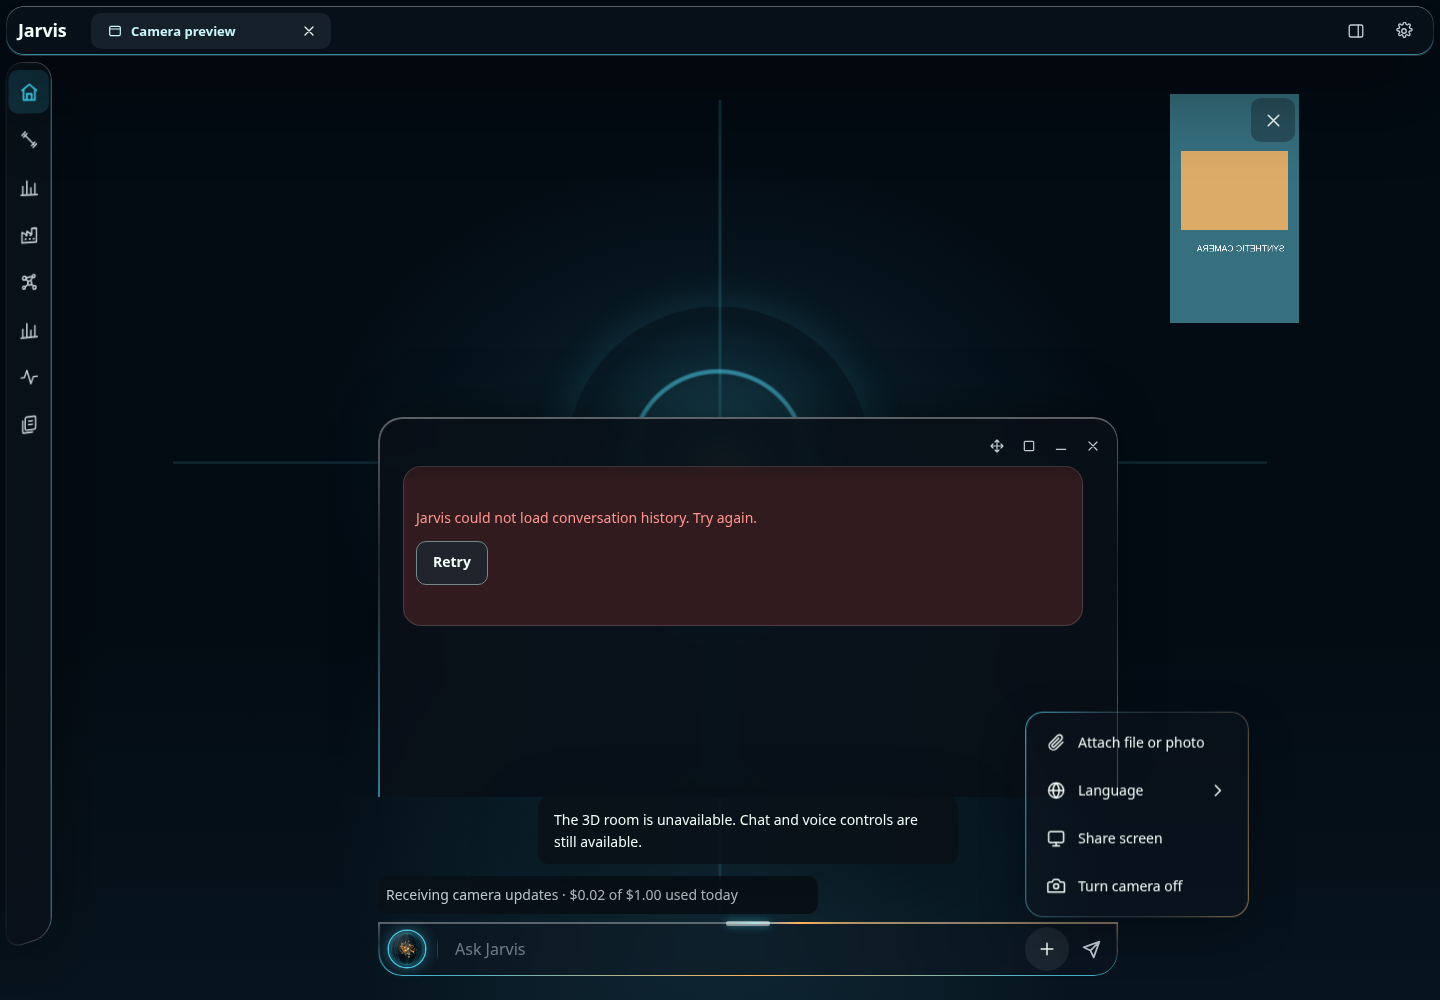
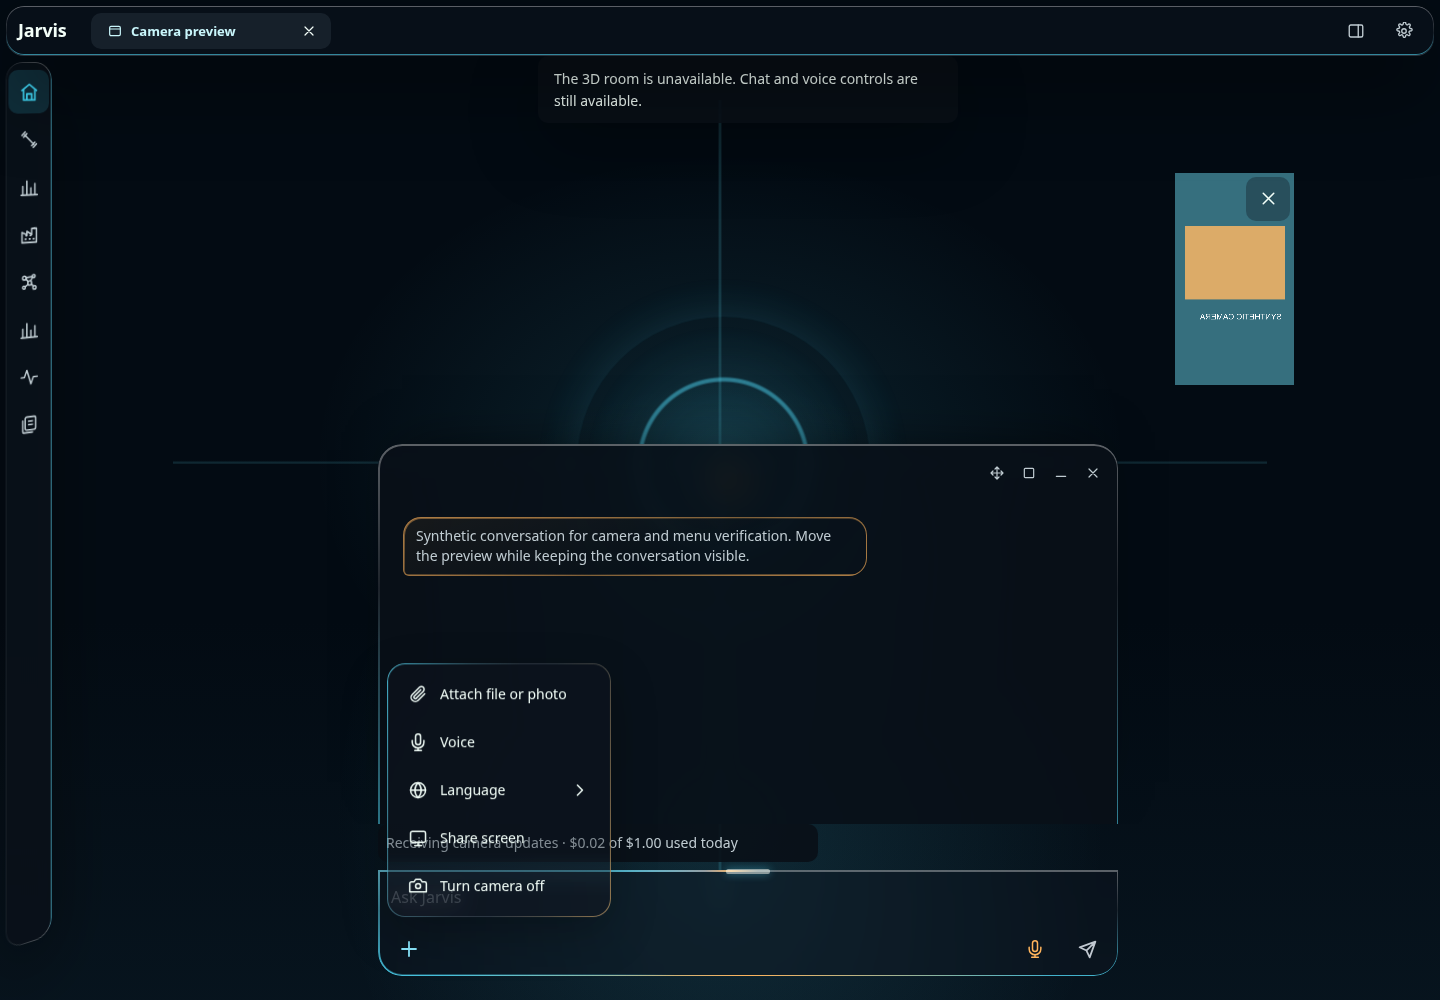
test: validate unified camera on integrated main

diff --git a/docs/ui/screenshots/1317/fixtures/browser.py b/docs/ui/screenshots/1317/fixtures/browser.py
@@ -23,6 +23,7 @@ with sync_playwright() as p:
    if '/settings' in u:data={'settings':{'appearance':{'theme':'dark'}}}
    if '/presence' in u:data={'mode':'available','updatedAt':'2026-10-26T06:00:00Z'}
    if '/conversation/sessions' in u:data={'id':'43','channel':'chat','language':'en'}
+   if '/conversation/turns/active' in u:data={'turns':[]}
    if '/vision/watch' in u:
     if r.request.method=='POST' and stall:held.append(r);return
     if r.request.method=='POST' and exhausted:r.fulfill(status=429,json={'error':'The daily vision budget is exhausted.'});return
@@ -34,7 +35,7 @@ with sync_playwright() as p:
   navigator.permissions.query=async()=>({state:window.fixturePermission});
   const originalFetch=window.fetch.bind(window);
   window.fetch=async(input,init)=>{
-    const url=typeof input==='string'?input:input.url;
+    const url=input instanceof Request?input.url:String(input);
     if(url.endsWith('/now/events')) return new Response(new ReadableStream({start(controller){
       const emit=(event,data)=>controller.enqueue(new TextEncoder().encode('event: '+event+'\\ndata: '+JSON.stringify(data)+'\\n\\n'));
       window.fixtureCommand=command=>emit('workspace-command',{command,expiresAt:Date.now()+10000});
@@ -57,6 +58,8 @@ with sync_playwright() as p:
   page.goto('http://localhost:5173/qaapp1296.html');page.get_by_role('textbox',name='Message Jarvis').wait_for();page.wait_for_timeout(1000)
   page.evaluate("document.documentElement.dataset.theme='dark'")
   if page.get_by_role('button',name='Show conversation',exact=True).count():page.get_by_role('button',name='Show conversation',exact=True).click()
+  page.get_by_text('Synthetic conversation for camera and menu verification.',exact=False).first.wait_for()
+  assert page.get_by_text('Jarvis could not load conversation history.',exact=False).count()==0
   trigger=page.locator('.composer-more .more-menu-trigger'); trigger.wait_for()
   press=lambda locator: locator.tap() if touch else locator.click()
   for i in range(3):

diff --git a/docs/ui/screenshots/1317/README.md b/docs/ui/screenshots/1317/README.md
@@ -13,7 +13,7 @@ when requested; missing browser permission is refused explicitly.
 
 ## Local evidence
 
-- Final `npm test`: contracts 174 passed; web 153 files/2,388 passed; backend
+- Pre-integration `npm test`: contracts 174 passed; web 153 files/2,388 passed; backend
   297 files/6,685 passed with one skipped; vault mirror 13 files/237 passed.
 - Focused backend before review: 7 files, 161 tests passed (`vision`, capability instructions,
   visual context and tool parity). Covers typed and spoken tool dispatch,
@@ -99,5 +99,27 @@ explicit persistence-entry signal instead of a load-sensitive one-second polling
 limit. Final full aggregate completed successfully at 14:38 UTC with the counts
 above; lint and build passed across all four workspaces. Hosted CodeQL, PR title
 and Plan status passed on implementation commit `83a1d960`; aggregate hosted CI
-was skipped because the PR remains draft. Final-main rebase/revalidation remains
-with the parent integration queue.
+was skipped because the PR remains draft. The combined-main rebase and revalidation follow below.
+
+## Combined-main integration (26 October, 15:00 UTC)
+
+Rebased without conflicts onto `496182bc226bd3419a8e015ad7e2955e23abb4a1`.
+Reviewed preservation of meal recovery's original IDs and no-fresh-capture guards,
+the `phone = false` binding and focused-phone Send pointer handler, desktop
+Voice-under-Plus/layout, and mobile composer visibility. The camera PR does not
+change incoming composer CSS or conversation recovery transport.
+
+The repeated synthetic browser checks passed at all three widths: five accepted
+frames each, zero after stop, no page errors. The fixture now handles URL objects
+in its fetch wrapper and returns an empty active-turn list for the integrated
+recovery route; it explicitly asserts loaded synthetic history. Refreshed images
+contain only synthetic data. Browser command tests prove capture/stop and frame
+receipt through real application handlers, not live model natural-language intent
+selection. Physical iPhone and live-camera/model acceptance remain unverified.
+
+Combined-main `npm test` passed: contracts 174; web 153 files/2,400 tests;
+backend 298 files/6,695 tests with one existing skip; vault-mirror 13 files/237
+tests. All-workspace lint/build and Python Ruff/929 tests/byte compilation passed.
+The aggregate exited successfully at 15:06 UTC. No local check failed on the
+combined production tree. Hosted exact-head qualification follows readiness;
+reviewed integration authorization does not bypass required checks or policies.

diff --git a/PLAN.md b/PLAN.md
@@ -4,8 +4,9 @@ Implementation on `fix/1317-unified-camera`: automatic sampled-frame delivery,
 truthful receiving status, explicit standing narration, approved removal of the
 user-inactivity cutoff, permission-checked Jarvis start/stop, obsolete camera action
 cleanup and bounded lifecycle. Local checks and synthetic browser evidence are
-in `docs/ui/screenshots/1317/README.md`. Draft review and exact-head hosted CI
-remain before parent-coordinated integration; no merge or deployment authorized here.
+in `docs/ui/screenshots/1317/README.md`. Rebased onto combined main `496182bc` without conflicts; independent integration
+review passed. Exact-head hosted qualification remains before the authorized normal
+merge/deployment workflow; no production release is claimed yet.
 
 # Project plan
 
